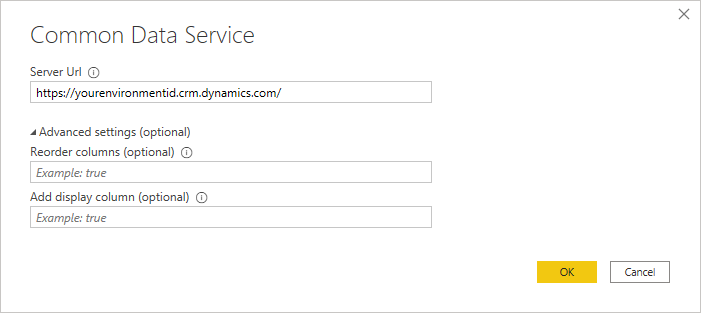
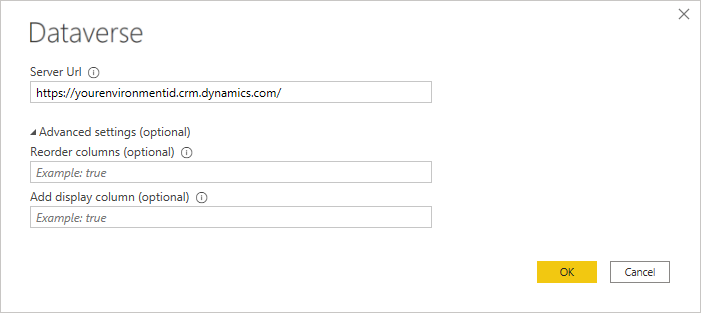
Updates

Changed region(s): [[0.03, 0.0575, 0.3595, 0.1438]]

diff --git a/powerquery-docs/Connectors/index.md b/powerquery-docs/Connectors/index.md
@@ -55,7 +55,7 @@ A checkmark indicates the connector is currently supported in the listed service
 | ![Common Data Service (legacy)](media/index/cds-to-data64.png)<br/>**Common Data<br/>Service (legacy)**<br/>By Microsoft                            | ![Not supported](media/index/no.png)  | ![Supported](media/index/yes.png) | ![Not supported](media/index/no.png)  | ![Not supported](media/index/no.png)  | ![Not supported](media/index/no.png)  | ![Not supported](media/index/no.png)  |
 | <a name="letter-d"></a>![Data.World - Get Dataset (Beta)](media/index/data-world-64.png)<br/>**Data.World -<br/>Get Dataset<br/>(Beta)**<br/>By Microsoft          | ![Not supported](media/index/no.png)  | ![Supported](media/index/yes.png) | ![Not supported](media/index/no.png)  | ![Not supported](media/index/no.png)  | ![Not supported](media/index/no.png)  | ![Not supported](media/index/no.png)  |
 | ![Data Virtuality (Beta)](media/index/data-virtuality-64.png)<br/>**Data Virtuality<br/>(Beta)**<br/>By Data Virtuality                 | ![Not supported](media/index/no.png)  | ![Supported](media/index/yes.png) | ![Not supported](media/index/no.png)  | ![Not supported](media/index/no.png)  | ![Not supported](media/index/no.png)  | ![Not supported](media/index/no.png)  |
-| [![Dataverse](media/index/dataverse-64.png)<br/>**Dataverse**](./commondataservice.md)<br/>By Microsoft                                    | ![Not supported](media/index/no.png)  | ![Supported](media/index/yes.png) | ![Supported](media/index/yes.png) | ![Not supported](media/index/no.png)  | ![Supported](media/index/yes.png) | ![Not supported](media/index/no.png)  |
+| [![Dataverse](media/index/dataverse-64.png)<br/>**Dataverse**](./dataverse.md)<br/>By Microsoft                                    | ![Not supported](media/index/no.png)  | ![Supported](media/index/yes.png) | ![Supported](media/index/yes.png) | ![Not supported](media/index/no.png)  | ![Supported](media/index/yes.png) | ![Not supported](media/index/no.png)  |
 | ![Denodo](media/index/denodo-for-powerbi-64.png)<br/>**Denodo**<br/>By Denodo                                                       | ![Not supported](media/index/no.png)  | ![Supported](media/index/yes.png) | ![Not supported](media/index/no.png)  | ![Not supported](media/index/no.png)  | ![Not supported](media/index/no.png)  | ![Not supported](media/index/no.png)  |
 | ![Dremio (Beta)](media/index/dremio-64.png)<br/>**Dremio**<br/>By Dremio                                                            | ![Not supported](media/index/no.png)  | ![Supported](media/index/yes.png) | ![Not supported](media/index/no.png)  | ![Not supported](media/index/no.png)  | ![Not supported](media/index/no.png)  | ![Not supported](media/index/no.png)  |
 | ![Dynamics 365 (online)](media/index/dynamics365-64.png)<br/>**Dynamics 365<br/>(online)**<br/>By Microsoft                             | ![Supported](media/index/yes.png) | ![Supported](media/index/yes.png) | ![Not supported](media/index/no.png)  | ![Not supported](media/index/no.png)  | ![Not supported](media/index/no.png)  | ![Supported](media/index/yes.png) |

diff --git a/powerquery-docs/Connectors/Dataverse.md b/powerquery-docs/Connectors/Dataverse.md
@@ -11,8 +11,6 @@ LocalizationGroup: reference
 
 # Dataverse
 
-[!INCLUDE [CDS note](../includes/cc-data-platform-banner.md)]
-
 ## Summary
 
 | Item | Description |
@@ -50,7 +48,7 @@ To connect to Dataverse from Power BI Desktop:
 
 1. Select **Get data** from the **Home** tab.
 
-2. In the **Get Data** dialog box, select **Power Platform > Dataverse**.
+2. In the **Get Data** dialog box, select **Power Platform > Dataverse**, and then select **Connect**.
 
    ![Get data in Power BI Desktop](media/common-data-service/get-data.png)
 
@@ -76,7 +74,7 @@ To connect to Dataverse from Power BI Desktop:
 
 To connect to Dataverse from Power Query Online:
 
-1. From the **Data sources** page, select **Dataverse**.
+1. From the **Data sources** page, select **Common Data Service**.
 
    ![Get data from Power Query Online](media/common-data-service/get-data-online.png)
 
